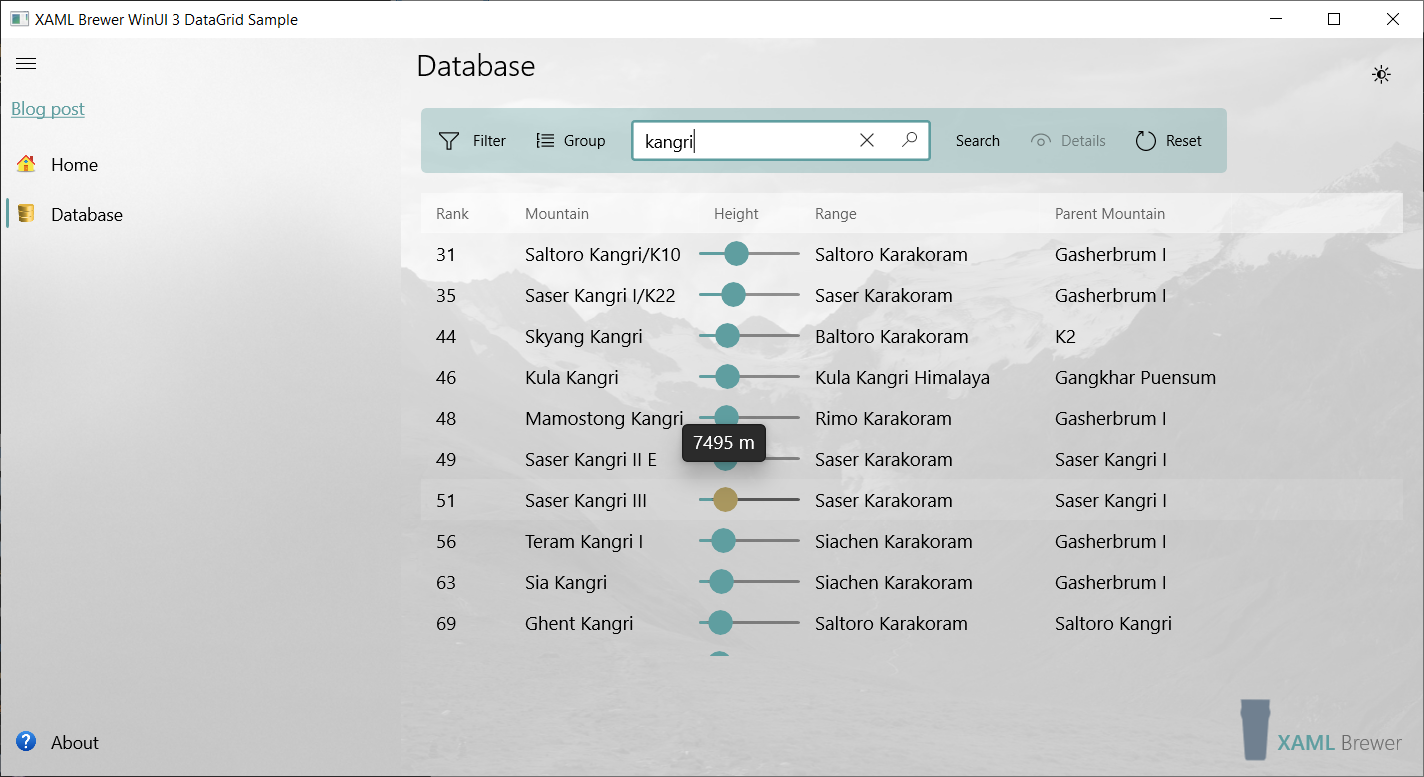
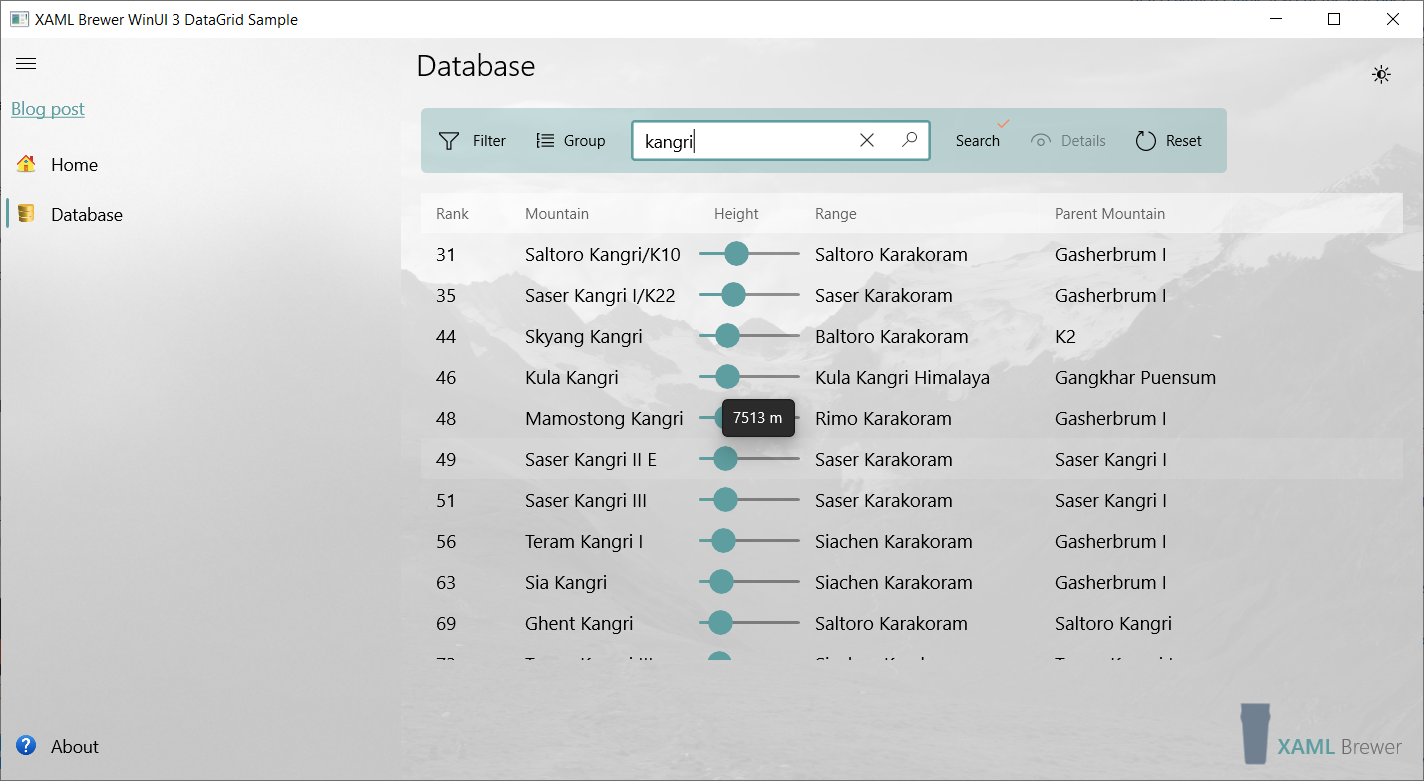
Brought back the slider ToolTip - it disappeared when setting IsHitTestVisible to false.

diff --git a/XamlBrewer.WinUI3.DataGrid.Sample/XamlBrewer.WinUI3.DataGrid.Sample/Views/DatabasePage.xaml b/XamlBrewer.WinUI3.DataGrid.Sample/XamlBrewer.WinUI3.DataGrid.Sample/Views/DatabasePage.xaml
@@ -167,7 +167,7 @@
                           RowDetailsVisibilityMode="Collapsed"
                           Grid.Row="1">
             <ctWinUI:DataGrid.Resources>
-                <services:SliderValueConverter x:Key="SliderValueConverter" />
+                <!--<services:SliderValueConverter x:Key="SliderValueConverter" />-->
                 <!--<Color x:Key="DataGridColumnHeaderBackgroundColor">Silver</Color>-->
                 <SolidColorBrush x:Key="DataGridColumnHeaderBackgroundBrush"
                                  Opacity=".5" />
@@ -188,12 +188,14 @@
                                                 Tag="Height">
                     <ctWinUI:DataGridTemplateColumn.CellTemplate>
                         <DataTemplate x:DataType="models:Mountain">
-                            <Slider Minimum="7200"
-                                    Maximum="8848"
-                                    Value="{x:Bind Height}"
-                                    IsHitTestVisible="False"
-                                    IsTabStop="False"
-                                    ThumbToolTipValueConverter="{StaticResource SliderValueConverter}" />
+                            <Grid Background="Transparent"
+                                  ToolTipService.ToolTip="{x:Bind HeightDescription}">
+                                <Slider Minimum="7200"
+                                        Maximum="8848"
+                                        Value="{x:Bind Height}"
+                                        IsHitTestVisible="False"
+                                        IsTabStop="False" />
+                            </Grid>
                         </DataTemplate>
                     </ctWinUI:DataGridTemplateColumn.CellTemplate>
                 </ctWinUI:DataGridTemplateColumn>

diff --git a/XamlBrewer.WinUI3.DataGrid.Sample/XamlBrewer.WinUI3.DataGrid.Sample/Models/Mountain.cs b/XamlBrewer.WinUI3.DataGrid.Sample/XamlBrewer.WinUI3.DataGrid.Sample/Models/Mountain.cs
@@ -12,8 +12,12 @@ namespace XamlBrewer.WinUI3.DataGrid.Sample.Models
         // private Mountain _parent;
         private string _parentMountain;
 
+        // Key
+
         [Key]
         public int Id { get; set; }
+
+        // Fields
 
         public uint Rank
         {
@@ -52,5 +56,9 @@ namespace XamlBrewer.WinUI3.DataGrid.Sample.Models
         public uint FirstAscent { get; set; }
 
         public string Ascents { get; set; }
+
+        // Helpers
+
+        public string HeightDescription => $"{Height} m";
     }
 }

diff --git a/XamlBrewer.WinUI3.DataGrid.Sample/XamlBrewer.WinUI3.DataGrid.Sample/Services/SliderValueConverter.cs b/XamlBrewer.WinUI3.DataGrid.Sample/XamlBrewer.WinUI3.DataGrid.Sample/Services/SliderValueConverter.cs
@@ -3,12 +3,14 @@ using System;
 
 namespace XamlBrewer.WinUI3.DataGrid.Sample.Services
 {
+    // Just for information. Not used anymore.
+
     public class SliderValueConverter : IValueConverter
     {
         public object Convert(object value, Type targetType, object parameter, string language)
         {
 
-            return String.Format($"{value} m");
+            return $"{value} m";
         }
 
         public object ConvertBack(object value, Type targetType, object parameter, string language)
